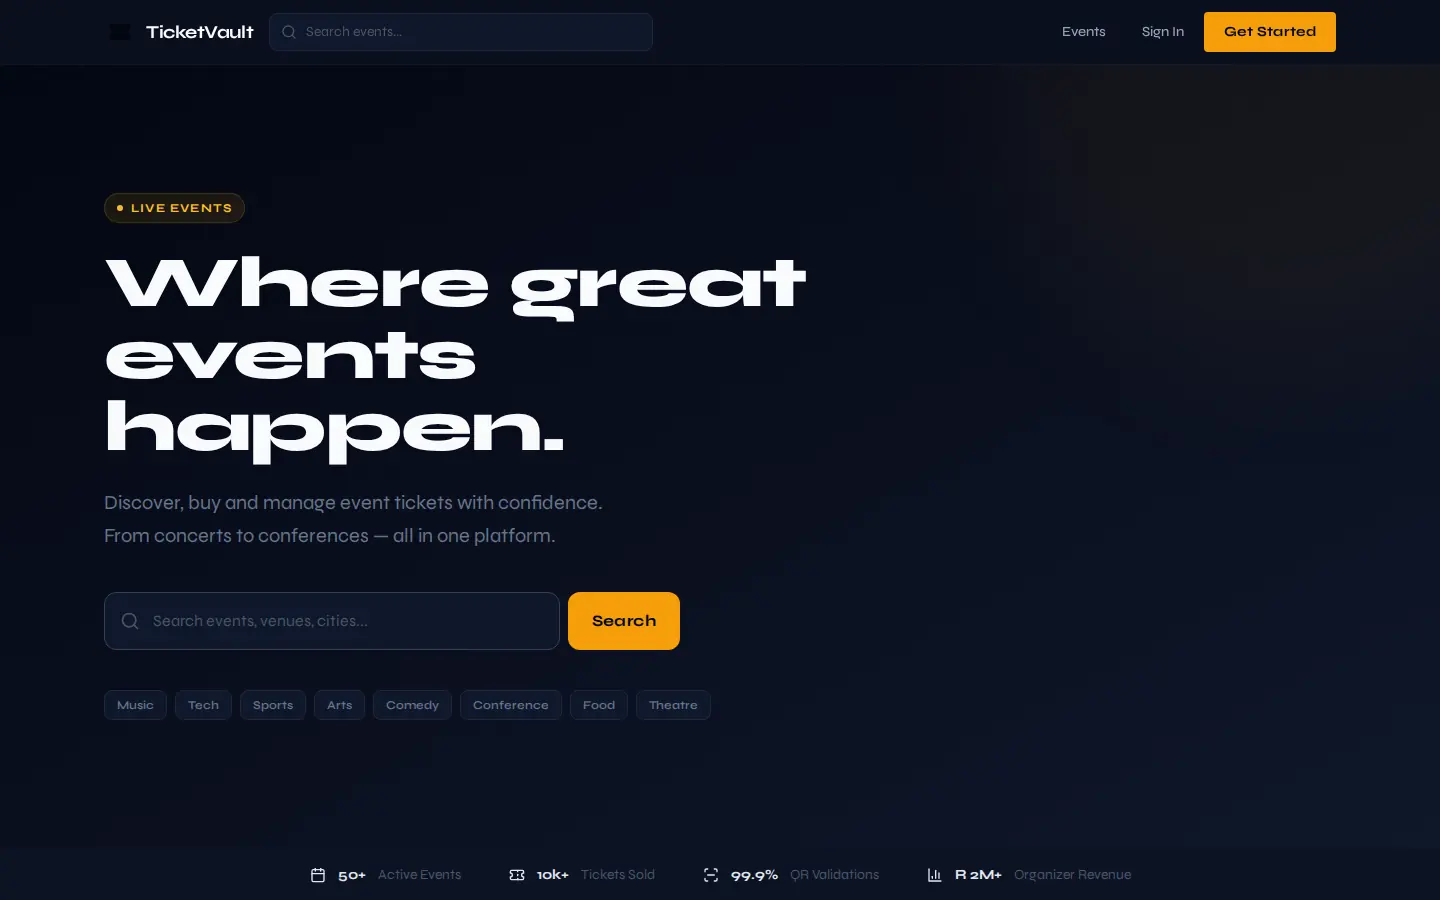
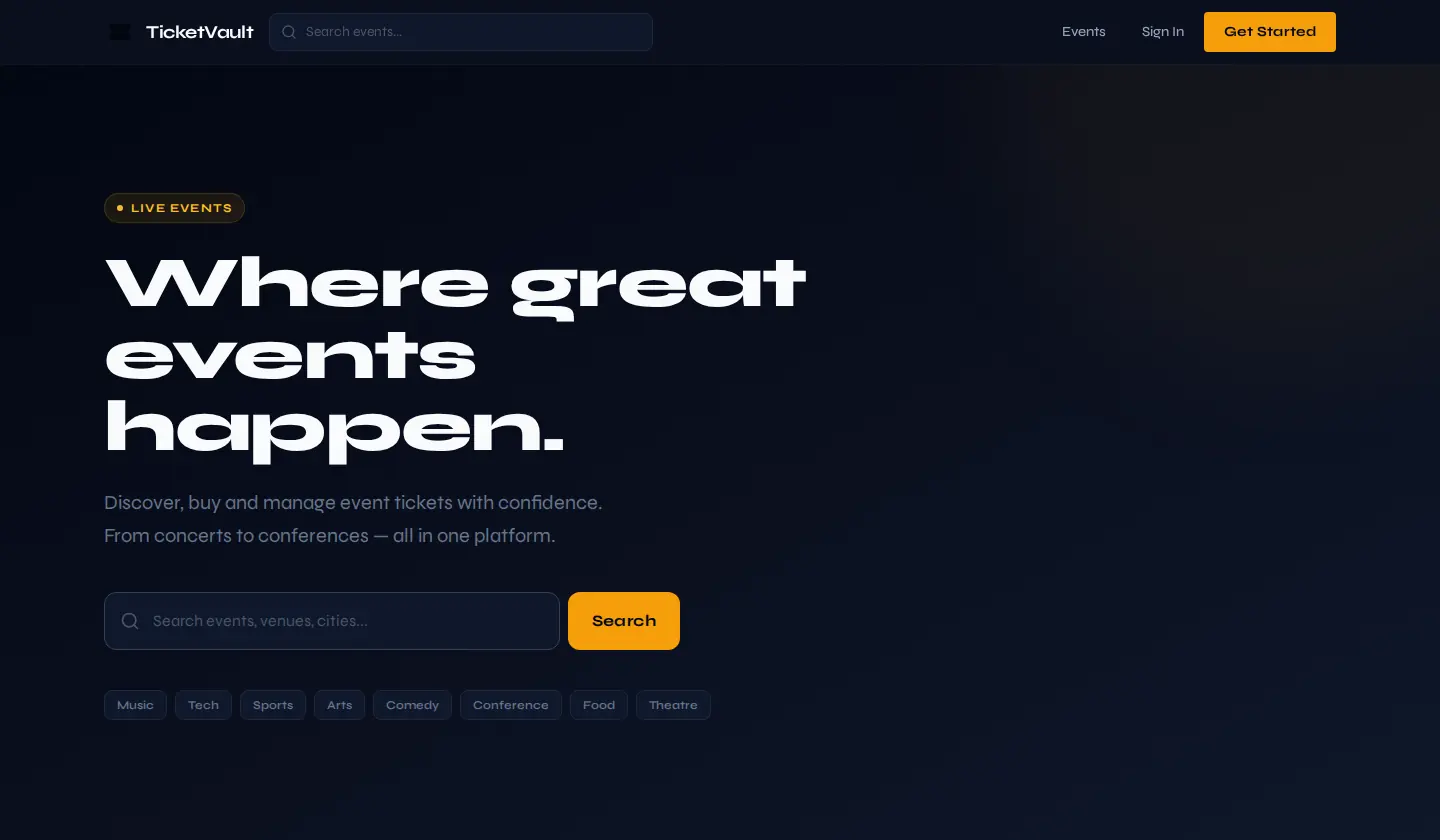
fix: crop TicketVault's demo stats, give the Odoo result its context
The TicketVault plate showed the live site's own demo stats bar (10k+
tickets, 2M+ revenue), which read as claims about the project; it is
cropped above that bar. The Skill Swap row now says what the finalist
place was for. Project statuses use one capitalisation. PRODUCT.md
records that the desk film's subject is unconfirmed, so it stays world
imagery and is never captioned as Owais.

diff --git a/PRODUCT.md b/PRODUCT.md
@@ -69,6 +69,8 @@ universes are his.
 - Films v1–v3 (desk, ride, throttle) were supplied by Owais and approved by him as world imagery. The bikes in v1/v2
   are not his 125R; he has said he will replace footage gradually and does not want this re-argued. Do not pair
   bike footage with claims that it is his bike.
+  The person in the desk film (v3) has not been confirmed by Owais as himself. Until he does, it is world imagery:
+  never caption it as him or use it as proof of identity. His confirmed likeness is the b1/b2 portraits.
 - Live screenshots of his own deployed projects: `web/public/shots/` (provenance embedded).
 - Absent and not to be fabricated: shayari (pending his dump), gym logs, testimonials, client logos.
 
